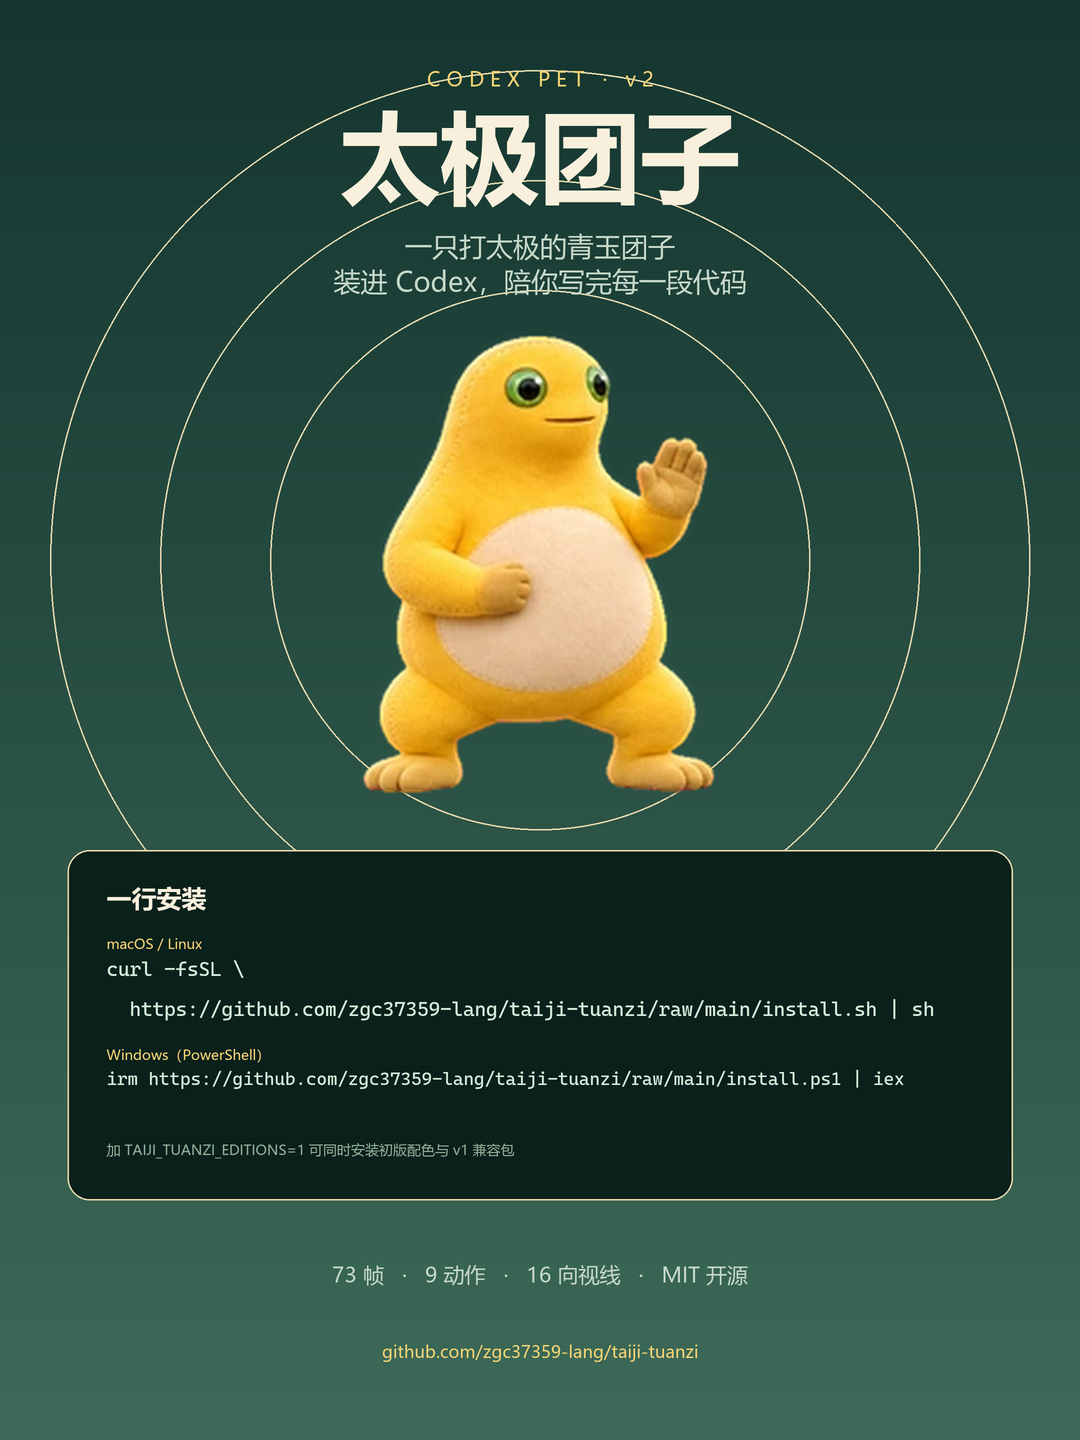
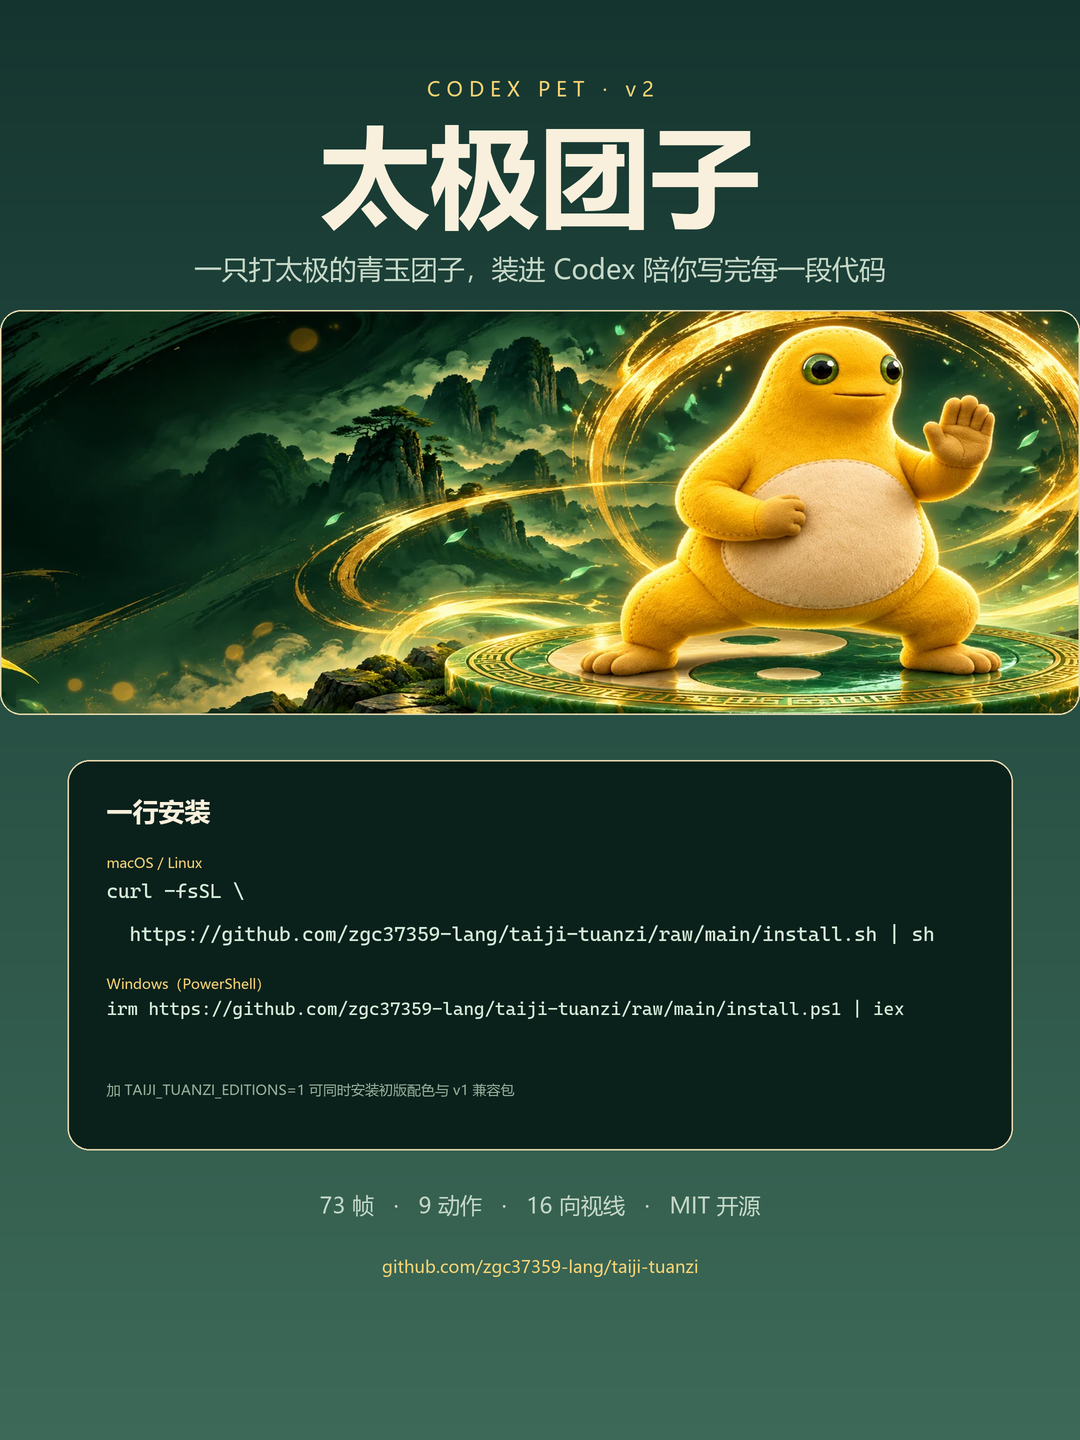
feat: 分享图主视觉改用 readme-cover 精绘图
- 精灵图单帧放大 4.7 倍会发虚，改为使用 assets/readme-cover.webp
- 横幅放大 1.35 倍后居中裁切为 2160×810，圆角描边
- 增加 2160×2880 JPEG（633 KB）便于平台上传

diff --git a/scripts/build-share-image.py b/scripts/build-share-image.py
@@ -1,5 +1,6 @@
 """生成竖屏分享图（2160×2880 与 1080×1440）。
 
+主视觉使用 assets/readme-cover.webp，而不是放大精灵图单帧。
 依赖：Pillow，以及 Windows 中文字体 msyhbd.ttc / msyh.ttc 与 CascadiaMono.ttf。
 用法：python scripts/build-share-image.py
 """
@@ -10,11 +11,10 @@ from pathlib import Path
 from PIL import Image, ImageDraw, ImageFont
 
 ROOT = Path(__file__).resolve().parent.parent
-SHEET = ROOT / "spritesheet.webp"
+COVER = ROOT / "assets" / "readme-cover.webp"
 OUT_DIR = ROOT / "assets" / "share"
 
 W, H = 2160, 2880
-CELL_W, CELL_H = 192, 208
 
 BOLD = "C:/Windows/Fonts/msyhbd.ttc"
 REGULAR = "C:/Windows/Fonts/msyh.ttc"
@@ -32,6 +32,11 @@ CURL = [
     "  " + BASE + "/install.sh | sh",
 ]
 PS1 = "irm " + BASE + "/install.ps1 | iex"
+
+BANNER_Y = 620
+BANNER_H = 810
+BANNER_RADIUS = 42
+BANNER_ZOOM = 1.35
 
 
 def gradient(size, top, bottom):
@@ -61,79 +66,101 @@ def centered(draw, y, text, font, fill):
     draw.text(((W - width) / 2, y), text, font=font, fill=fill)
 
 
+def build_banner():
+    """等比放大后居中裁切，避免直接裁掉原图两侧的主体。"""
+    cover = Image.open(COVER).convert("RGB")
+    zoomed = cover.resize(
+        (round(cover.width * BANNER_ZOOM), round(cover.height * BANNER_ZOOM)),
+        Image.LANCZOS,
+    )
+    # 目标横幅高度由宽度推出来，防止比例失真
+    target_h = round(W * zoomed.height / zoomed.width)
+    if target_h < BANNER_H:
+        zoomed = zoomed.resize((round(zoomed.width * BANNER_H / target_h), BANNER_H), Image.LANCZOS)
+        target_h = BANNER_H
+    left = max(0, (zoomed.width - W) // 2)
+    top = max(0, (zoomed.height - target_h) // 2)
+    banner = zoomed.crop((left, top, left + W, top + target_h)).convert("RGBA")
+    if banner.height != BANNER_H:
+        banner = banner.resize((W, BANNER_H), Image.LANCZOS)
+    mask = Image.new("L", banner.size, 0)
+    ImageDraw.Draw(mask).rounded_rectangle(
+        [(0, 0), (banner.width - 1, banner.height - 1)], radius=BANNER_RADIUS, fill=255
+    )
+    return banner, mask
+
+
 def main():
     canvas = gradient((W, H), (20, 53, 47), (61, 106, 88)).convert("RGBA")
     draw = ImageDraw.Draw(canvas, "RGBA")
 
-    for radius, alpha in ((980, 14), (760, 18), (540, 22)):
-        draw.ellipse(
-            [(1080 - radius, 1120 - radius), (1080 + radius, 1120 + radius)],
-            outline=(228, 216, 174, alpha),
-            width=3,
-        )
-
     tag_font = ImageFont.truetype(REGULAR, 40, index=0)
-    title_font = ImageFont.truetype(BOLD, 200, index=0)
+    title_font = ImageFont.truetype(BOLD, 220, index=0)
     sub_font = ImageFont.truetype(REGULAR, 54, index=0)
-    card_title_font = ImageFont.truetype(BOLD, 50, index=0)
+    card_title_font = ImageFont.truetype(BOLD, 52, index=0)
     label_font = ImageFont.truetype(REGULAR, 28, index=0)
     hint_font = ImageFont.truetype(REGULAR, 28, index=0)
-    feet_font = ImageFont.truetype(REGULAR, 42, index=0)
+    feet_font = ImageFont.truetype(REGULAR, 44, index=0)
     foot_font = ImageFont.truetype(REGULAR, 34, index=0)
 
-    centered(draw, 130, "C O D E X   P E T   ·   v 2", tag_font, GOLD)
-    centered(draw, 175, "太极团子", title_font, INK)
-    centered(draw, 455, "一只打太极的青玉团子", sub_font, SUB)
-    centered(draw, 525, "装进 Codex，陪你写完每一段代码", sub_font, SUB)
+    centered(draw, 150, "C O D E X   P E T   ·   v 2", tag_font, GOLD)
+    centered(draw, 200, "太极团子", title_font, INK)
+    centered(draw, 500, "一只打太极的青玉团子，装进 Codex 陪你写完每一段代码", sub_font, SUB)
 
-    sheet = Image.open(SHEET).convert("RGBA")
-    pet = sheet.crop((0, 0, CELL_W, CELL_H))
-    scale = 4.7
-    pet = pet.resize((round(CELL_W * scale), round(CELL_H * scale)), Image.LANCZOS)
-    canvas.alpha_composite(pet, (round((W - pet.width) / 2), 640))
+    banner, mask = build_banner()
+    canvas.paste(banner, (0, BANNER_Y), mask)
+    draw.rounded_rectangle(
+        [(0, BANNER_Y), (W - 1, BANNER_Y + BANNER_H - 1)],
+        radius=BANNER_RADIUS,
+        outline=(228, 216, 174, 110),
+        width=3,
+    )
 
-    card_x, card_y, card_w, card_h = 135, 1700, W - 270, 700
+    card_x, card_y, card_w, card_h = 135, 1520, W - 270, 780
     draw.rounded_rectangle(
         [(card_x, card_y), (card_x + card_w, card_y + card_h)],
         radius=44,
-        fill=(10, 32, 27, 235),
+        fill=(10, 32, 27, 238),
         outline=(228, 216, 174, 90),
         width=3,
     )
     pad = 78
     inner = card_w - pad * 2
-    draw.text((card_x + pad, card_y + 62), "一行安装", font=card_title_font, fill=INK)
+    draw.text((card_x + pad, card_y + 66), "一行安装", font=card_title_font, fill=INK)
 
-    draw.text((card_x + pad, card_y + 168), "macOS / Linux", font=label_font, fill=GOLD)
+    draw.text((card_x + pad, card_y + 186), "macOS / Linux", font=label_font, fill=GOLD)
     mono_font = fit(MONO, CURL[1], inner, 40)
-    y = card_y + 214
+    y = card_y + 238
     for line in CURL:
         draw.text((card_x + pad, y), line, font=mono_font, fill=CODE)
-        y += 80
+        y += 86
 
-    draw.text((card_x + pad, card_y + 390), "Windows（PowerShell）", font=label_font, fill=GOLD)
+    draw.text((card_x + pad, card_y + 428), "Windows（PowerShell）", font=label_font, fill=GOLD)
     ps_font = fit(MONO, PS1, inner, 36)
-    draw.text((card_x + pad, card_y + 436), PS1, font=ps_font, fill=CODE)
+    draw.text((card_x + pad, card_y + 476), PS1, font=ps_font, fill=CODE)
 
     draw.text(
-        (card_x + pad, card_y + 580),
+        (card_x + pad, card_y + 640),
         "加 TAIJI_TUANZI_EDITIONS=1 可同时安装初版配色与 v1 兼容包",
         font=hint_font,
         fill=MUTED,
     )
 
-    centered(draw, 2520, "73 帧   ·   9 动作   ·   16 向视线   ·   MIT 开源", feet_font, SUB)
-    centered(draw, 2680, "github.com/zgc37359-lang/taiji-tuanzi", foot_font, GOLD)
+    centered(draw, 2380, "73 帧   ·   9 动作   ·   16 向视线   ·   MIT 开源", feet_font, SUB)
+    centered(draw, 2510, "github.com/zgc37359-lang/taiji-tuanzi", foot_font, GOLD)
 
     OUT_DIR.mkdir(parents=True, exist_ok=True)
     big = OUT_DIR / "vertical-2160x2880.png"
     canvas.convert("RGB").save(big, "PNG", optimize=True)
+    jpg = OUT_DIR / "vertical-2160x2880.jpg"
+    canvas.convert("RGB").save(jpg, "JPEG", quality=92, optimize=True, progressive=True)
     small = OUT_DIR / "vertical-1080x1440.png"
     canvas.convert("RGB").resize((1080, 1440), Image.LANCZOS).save(small, "PNG", optimize=True)
 
+    print(f"横幅：{banner.width}×{banner.height} @ y={BANNER_Y}（原图放大 {BANNER_ZOOM}× 后居中裁切）")
     print(f"命令字号：curl {mono_font.size}px（宽 {mono_font.getlength(CURL[1]):.0f}px / 上限 {inner:.0f}px）")
     print(f"           ps1 {ps_font.size}px（宽 {ps_font.getlength(PS1):.0f}px）")
-    for path in (big, small):
+    for path in (big, jpg, small):
         print(path.name, Image.open(path).size, f"{os.path.getsize(path) / 1024:.0f} KB")
     assert mono_font.getlength(CURL[1]) <= inner and ps_font.getlength(PS1) <= inner
 
